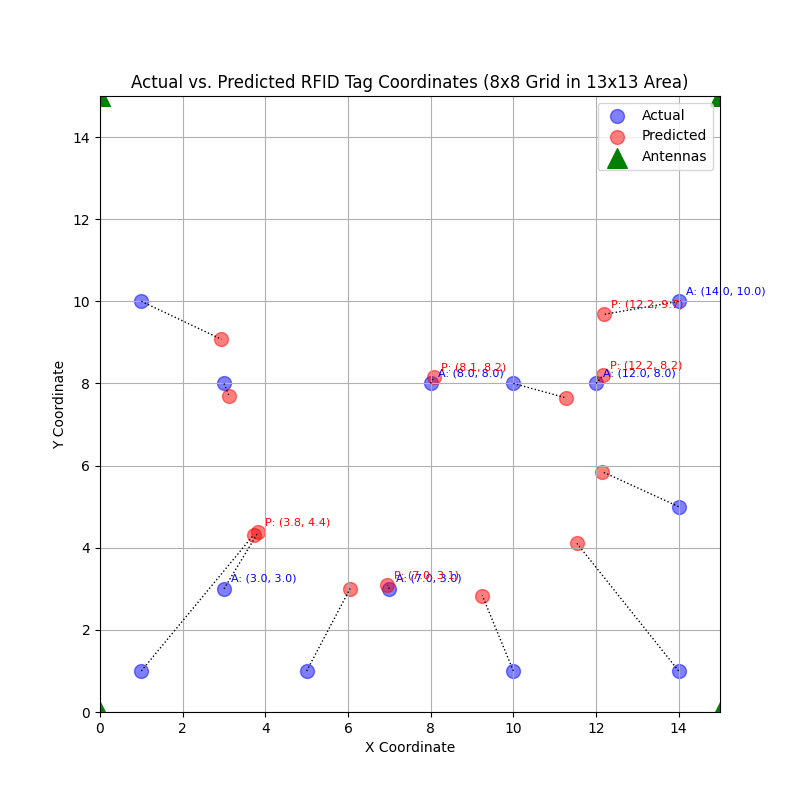
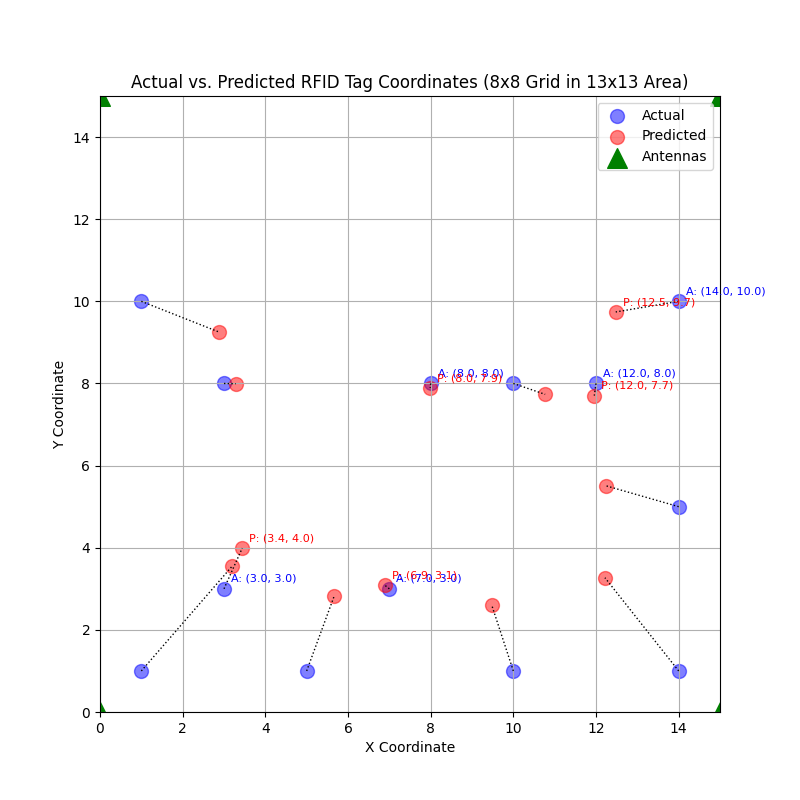
up

diff --git a/RandomForest/randomForest.py b/RandomForest/randomForest.py
@@ -47,18 +47,18 @@ all_data = pd.concat(data_list, ignore_index=True)
 ######################################################
 
 # Pivot data to create features per antenna for each location
-pivot_data = all_data.groupby(['x_coord', 'y_coord', 'antenna']).agg({
-    'rssi': 'mean',
-    'phase_angle': 'mean',
-    'channel_index': 'mean',
-    'doppler_frequency': 'mean'
-}).unstack()
+#pivot_data = all_data.groupby(['x_coord', 'y_coord', 'antenna']).agg({
+#    'rssi': 'mean',
+#    'phase_angle': 'mean',
+#    'channel_index': 'mean',
+#    'doppler_frequency': 'mean'
+#}).unstack()
 
 # Alternative: Use only rssi and phase_angle (uncomment to try)
-# pivot_data = all_data.groupby(['x_coord', 'y_coord', 'antenna']).agg({
-#     'rssi': 'mean',
-#     'phase_angle': 'mean'
-# }).unstack()
+pivot_data = all_data.groupby(['x_coord', 'y_coord', 'antenna']).agg({
+     'rssi': 'mean',
+     'phase_angle': 'mean'
+ }).unstack()
 
 # Flatten column names, e.g., rssi_Ant1, rssi_Ant2, etc.
 pivot_data.columns = [f'{col[0]}_Ant{int(col[1])}' for col in pivot_data.columns]
@@ -89,22 +89,23 @@ y = pivot_data[['x_coord', 'y_coord']]  # Predict both x and y coordinates
 scaler = StandardScaler()
 X = scaler.fit_transform(X)
 
+print(X)
 # Split data into training (80%) and testing (20%) sets
 X_train, X_test, y_train, y_test = train_test_split(X, y, test_size=0.2, random_state=42)
 
 # Define hyperparameter grid for tuning
 param_grid = {
-    'n_estimators': [100, 200, 400, 600, 800],
-    'max_depth': [5, 10, 15, 20, 25],
-    'min_samples_split': [2, 5, 10, 15],
-    'min_samples_leaf': [1, 2, 4, 6]
+    'n_estimators': [200, 400, 600, 800, 1000],
+    'max_depth': [10, 15, 20, 25, 30],
+    'min_samples_split': [2, 5, 10],
+    'min_samples_leaf': [1, 2, 3]
 }
 
 # Perform randomized search with cross-validation
 grid_search = RandomizedSearchCV(
     RandomForestRegressor(random_state=42),
     param_grid,
-    n_iter=20,  # Test 20 random combinations
+    n_iter=50,  # Test n random combinations
     cv=5,
     scoring='neg_mean_squared_error',
     n_jobs=-1  # Use all available CPU cores
@@ -127,7 +128,7 @@ print(f"Test Set MSE (x, y): {mse[0]:.2f}, {mse[1]:.2f}")
 
 # Predict coordinates for the test set
 y_pred = rf_model.predict(X_test)
-print(f"Predicted coordinates for the test set: {y_pred}")
+#print(f"Predicted coordinates for the test set: {y_pred}")
 
 ######################################################
 #-------------------- PLOTTING -----------------------#
